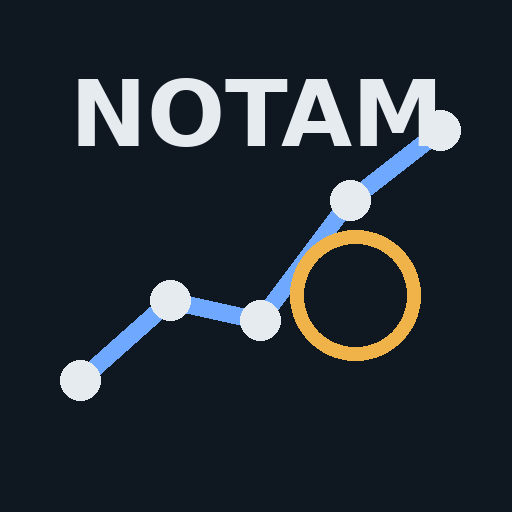
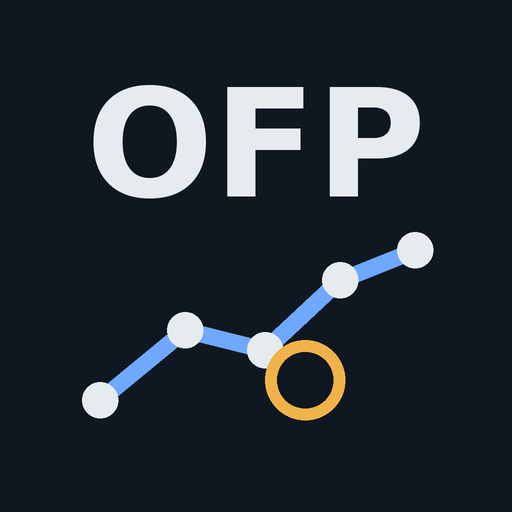
아이콘을 OFP로 변경 (v1.11.3) (#4)
Claude-Session: https://claude.ai/code/session_01Bb7yC9wfHcuiq36QWhrJjo

Changed region(s): [[0.0938, 0.125, 0.9062, 0.8438]]

diff --git a/sw.js b/sw.js
@@ -1,5 +1,5 @@
 // 오프라인 캐시 — 파일을 바꾸면 VERSION을 올리세요
-const VERSION = 'nf-v1.11.2';
+const VERSION = 'nf-v1.11.3';
 const FILES = ['./', './index.html', './app.js', './core.js', './interp.js', './decode.js', './literal.js', './trfile.js', './route.js', './route-view.js', './fuel.js', './fuel-view.js', './init.js', './init-view.js', './mel.js', './mel-view.js', './edto.js', './edto-view.js', './refile.js', './refile-view.js', './pdf.min.mjs', './pdf.worker.min.mjs',
   './manifest.webmanifest', './icon-192.png', './icon-512.png', './apple-touch-icon.png'];
 self.addEventListener('install', e => { e.waitUntil(caches.open(VERSION).then(c => c.addAll(FILES)).then(() => self.skipWaiting())); });

diff --git a/app.js b/app.js
@@ -18,7 +18,7 @@ import { literalKO } from './literal.js';
 import { trStore } from './trfile.js';
 
 pdfjs.GlobalWorkerOptions.workerSrc = new URL('./pdf.worker.min.mjs', import.meta.url).href;
-const APP_VERSION = '1.11.2';
+const APP_VERSION = '1.11.3';
 const $ = s => document.querySelector(s);
 
 /* ---------- 저장소 (실패해도 동작) ---------- */

diff --git a/CLAUDE.md b/CLAUDE.md
@@ -20,7 +20,7 @@
 ## 저장소와 배포
 - 저장소: https://github.com/Airbusdriver/notam-filter (main 브랜치 루트)
 - 웹 주소: https://airbusdriver.github.io/notam-filter/
-- 현재 버전: v1.11.2 (2026-11-20) — 앱 이름을 "OFP SUMMARY"로 변경 (저장소·주소는 notam-filter 그대로)
+- 현재 버전: v1.11.3 (2026-11-20) — 아이콘을 "OFP" 글자로 변경 (v1.11.2: 앱 이름 "OFP SUMMARY", 저장소·주소는 notam-filter 그대로)
 - 오프라인 주의: 주소는 반드시 끝에 / 를 붙인 https://airbusdriver.github.io/notam-filter/ 로 연다. / 없는 주소는 서비스워커 범위 밖이라 오프라인에서 열리지 않는다(GitHub 리디렉트가 온라인에서만 동작).
 - **반영 방식(사용자 결정):** 앱 동작에 영향이 없는 변경(CLAUDE.md·README·.gitignore 등 문서·설정)은 PR 없이 main에 바로 올린다. 앱 코드(HTML·JS·sw.js 등)를 바꾸는 변경은 브랜치에서 PR을 열어 사용자 확인을 받은 뒤 합친다.
 - **업데이트 규칙:** 파일을 수정하면 `sw.js`의 `VERSION` 값을 올려야 설치된 홈 화면 앱이 새 버전을 받는다. 새 파일은 `sw.js`의 `FILES`에도 추가한다.
